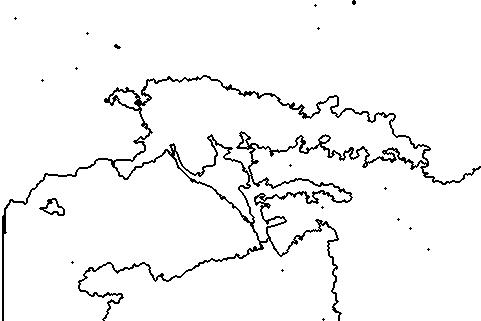
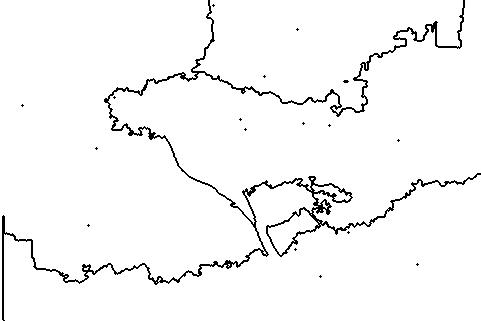
Hopefully this is fixed here

diff --git a/task2/src/Main.java b/task2/src/Main.java
@@ -53,6 +53,15 @@ public class Main {
 
             p = new Population(imgArray, edges, newRoots, numIndividuals);
 
+            Individual outIndividual = p.getIndividuals().get(0);
+            for(Segment segment : outIndividual.getSegments()){
+                for(Node n : segment.getNodes()){
+                    img = changeImageGroundTruth(img, n);
+                }
+            }
+
+            writeImage(path, img, i);
+
         }
 
 
@@ -67,8 +76,8 @@ public class Main {
             }
 
 
-        writeImage(path, img);
-        writeImage(path+"COLORS", img2);
+        writeImage(path, img, numIndividuals+2);
+        writeImage(path+"COLORS", img2, 0);
 
 
     }
@@ -83,6 +92,7 @@ public class Main {
 
     static BufferedImage readImage(String path) {
         BufferedImage img = null;
+
         try {
             img = ImageIO.read(new File("TestImages/" + path + "/Test image.jpg"));
 
@@ -92,8 +102,11 @@ public class Main {
         return img;
     }
 
-    static void writeImage(String path, BufferedImage img) {
-        File outputfile = new File("OutFiles/" + path + ".jpg");
+    static void writeImage(String path, BufferedImage img, int imgCount) {
+        File dir = new File("OutFiles/" + path);
+        dir.mkdir();
+
+        File outputfile = new File("OutFiles/" + path +"/" + path + imgCount + ".jpg");
         try {
             ImageIO.write(img, "jpg", outputfile);
         } catch (IOException e) {

diff --git a/task2/src/GA.java b/task2/src/GA.java
@@ -37,7 +37,7 @@ public class GA {
 
         for (int i = 0; i < children.size(); i++) {
             for (int j = 0; j < children.get(i).size(); j++) {
-                if(r.nextDouble() < 0.01){
+                if(r.nextDouble() < 0.1){
                     int newX = r.nextInt(imgArray[0].length);
                     int newY = r.nextInt(imgArray.length);
 
